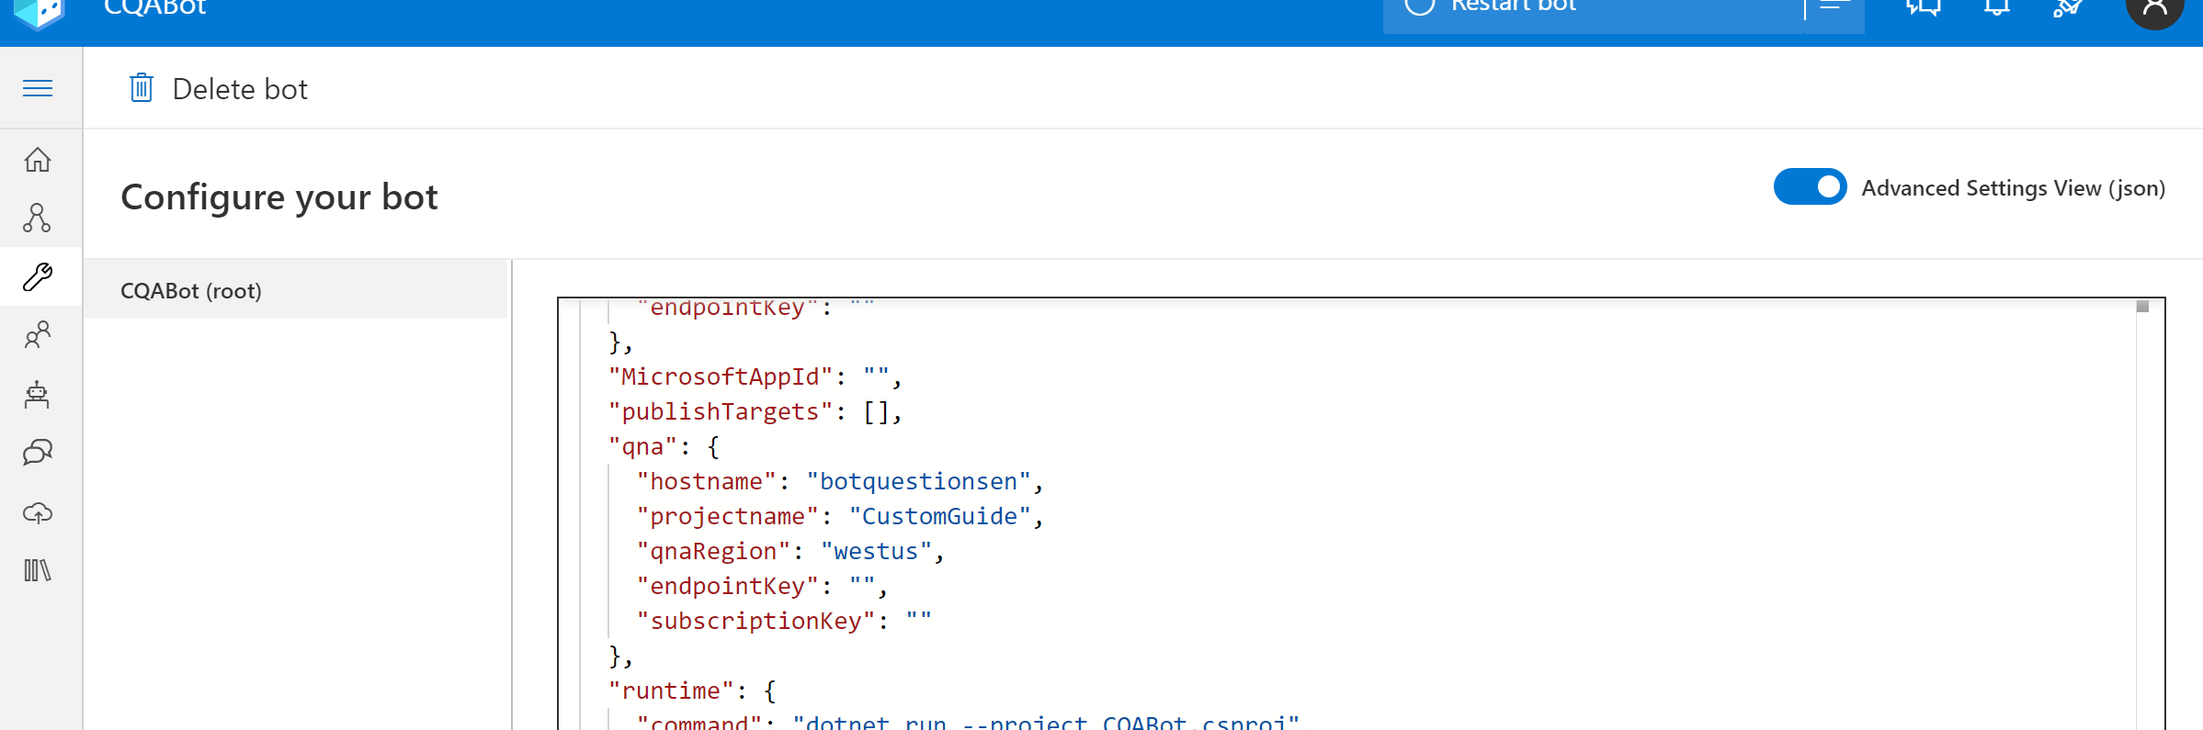
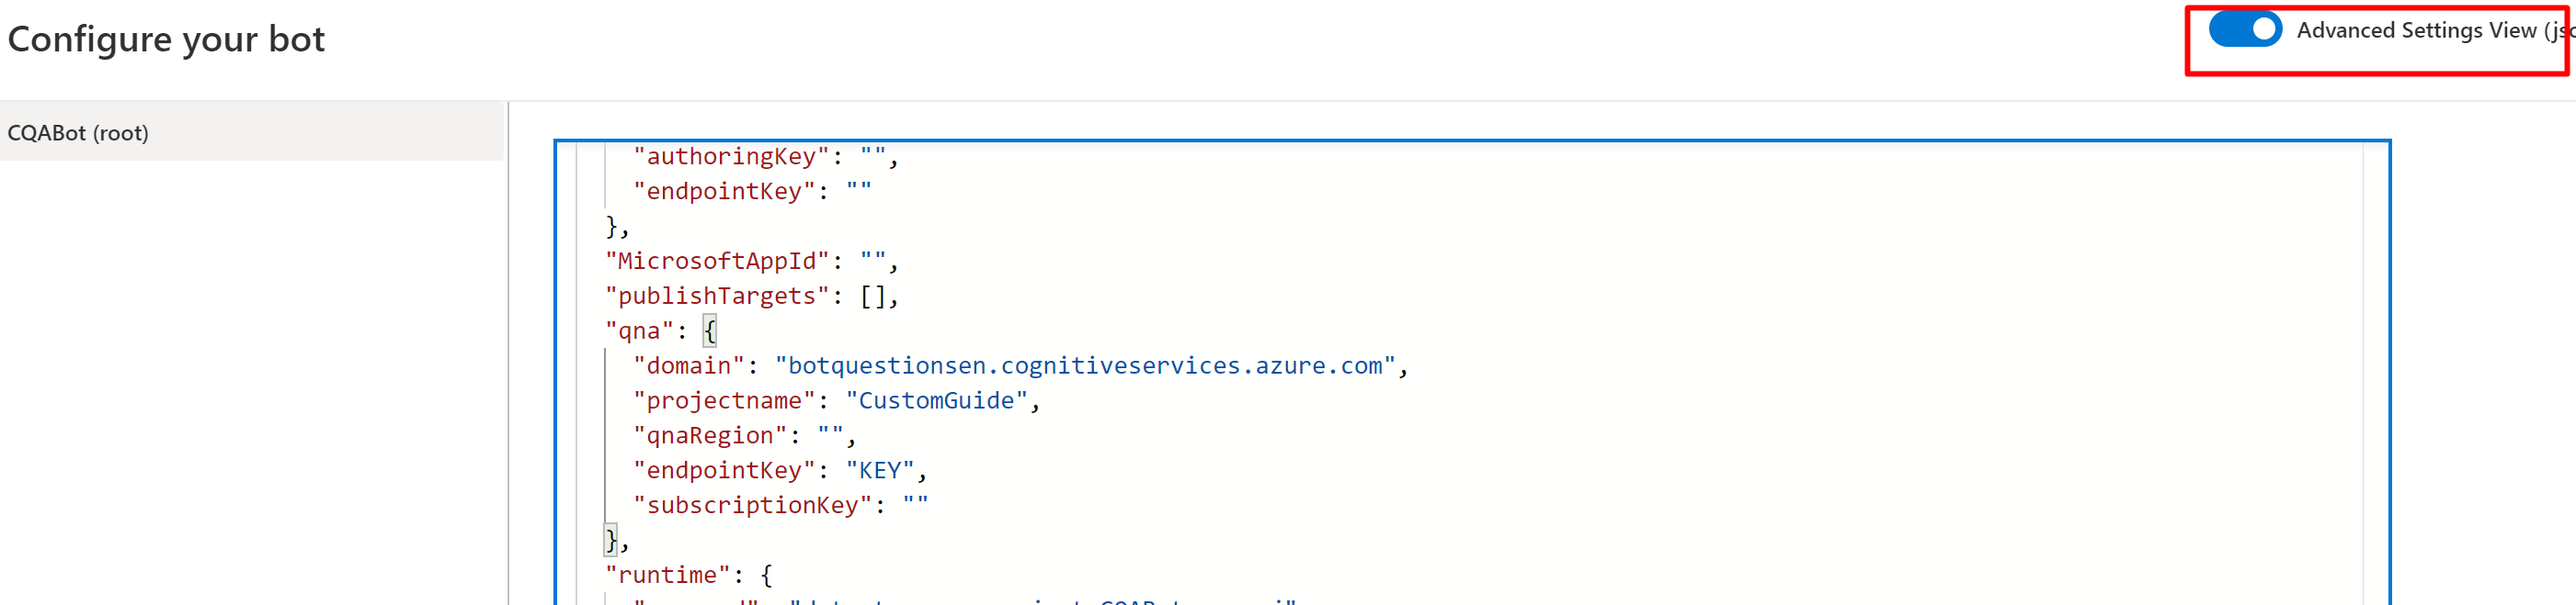
update docs

diff --git a/README.md b/README.md
@@ -87,26 +87,45 @@ REST call is sent to language `hostname` and `projectname` and use `endpointKey`
 Composer generates ASP.NET Core based code that could be run in Docker on AKS
 
 ## Set Language Service settings
-Secrets are not stored in repo to add Language service `endpointKey` add `settings/appsettings.Production.json` file with key for CQA endpoint:
+Secrets are not stored in repo to add Language service `endpointKey` add `settings/appsettings.Production.json` file with key for CQA endpoint, Domain for the service and project name:
 
 ```json
 {
   "qna": {
-    "endpointKey": "xxxxx"
+    "endpointKey": "xxxxx",
+    "domain": "botlanguage.cognitiveservices.azure.com",
+    "projectname": "CustomGuide"
   }
 }
 ```
 
-# Build Bot Container
+# Build Bot Container with Docker
+
+Build container:
 
 ```
 docker  build -t cqabot .
-docker tag cqabot <ACR>.azurecr.io/cqabot
+```
 
+Push contaniner to ACR
+```
 az login --tenant <TENANTID>
-az acr login  --name acrforbots
+az acr login  --name <ACRNAME>
+
+docker tag cqabot <ACR>.azurecr.io/cqabot
 docker push <ACR>.azurecr.io/cqabot
 ```
+
+# Build Bot Container with ACR
+
+Build and Push contaniner with ACR
+```
+az login --tenant <TENANTID>
+az acr login  --name <ACRNAME>
+
+az acr build --image cqabot --registry $ACR_NAME .
+```
+
 
 ## Test Bot Loacally
 
